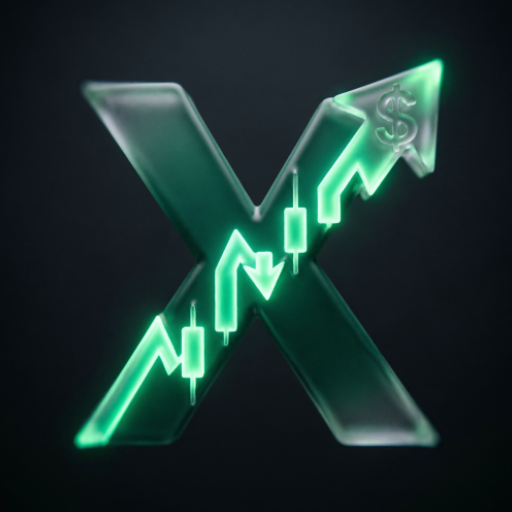
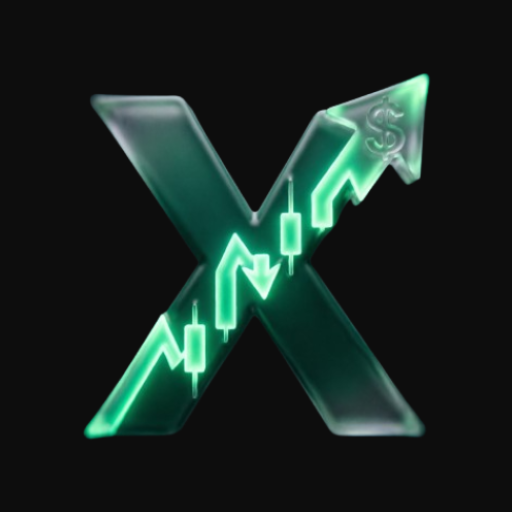
Implement Android Splash Screen API and refine launcher assets
- Add `androidx.core:core-splashscreen` dependency and initialize it in `MainActivity` using `installSplashScreen()`.
- Update the launcher background color from `#000000` to `#0D0D0D` in `currx_launcher_background.xml`.
- Refresh all `currx_launcher` assets, including foreground, monochrome, and round variants, across all density buckets.
- Clean up boilerplate license headers from adaptive icon XML resource files.
- Update the project JDK configuration to Corretto 21 in `.idea/misc.xml`.

Changed region(s): [[0.125, 0.0, 0.9062, 0.875], [0.5938, 0.75, 0.625, 0.8125]]

diff --git a/app/src/main/java/com/jsayago77/currx/MainActivity.kt b/app/src/main/java/com/jsayago77/currx/MainActivity.kt
@@ -83,6 +83,7 @@ import androidx.compose.ui.text.style.TextAlign
 import androidx.compose.ui.tooling.preview.Preview
 import androidx.compose.ui.unit.dp
 import androidx.compose.ui.unit.sp
+import androidx.core.splashscreen.SplashScreen.Companion.installSplashScreen
 import com.jsayago77.currx.R
 import com.jsayago77.currx.data.di.NetworkModule
 import com.jsayago77.currx.data.repository.ExchangeRateRepository
@@ -94,7 +95,6 @@ class MainActivity : ComponentActivity() {
     override fun onCreate(savedInstanceState: Bundle?) {
         super.onCreate(savedInstanceState)
         enableEdgeToEdge()
-
         val mainViewModel = MainViewModel(ExchangeRateRepository(NetworkModule.api))
 
         setContent {
